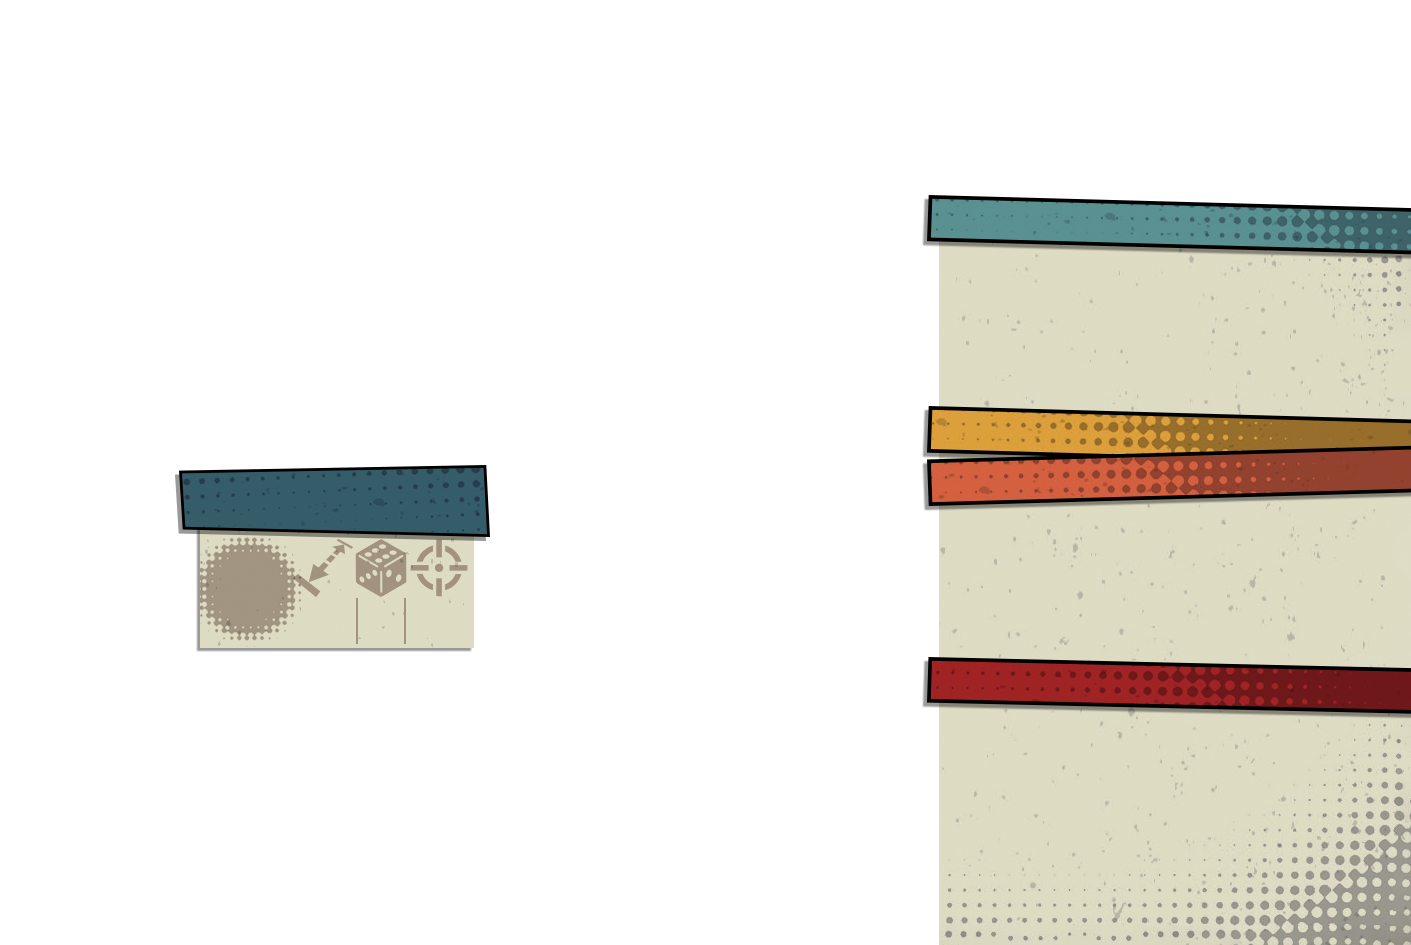
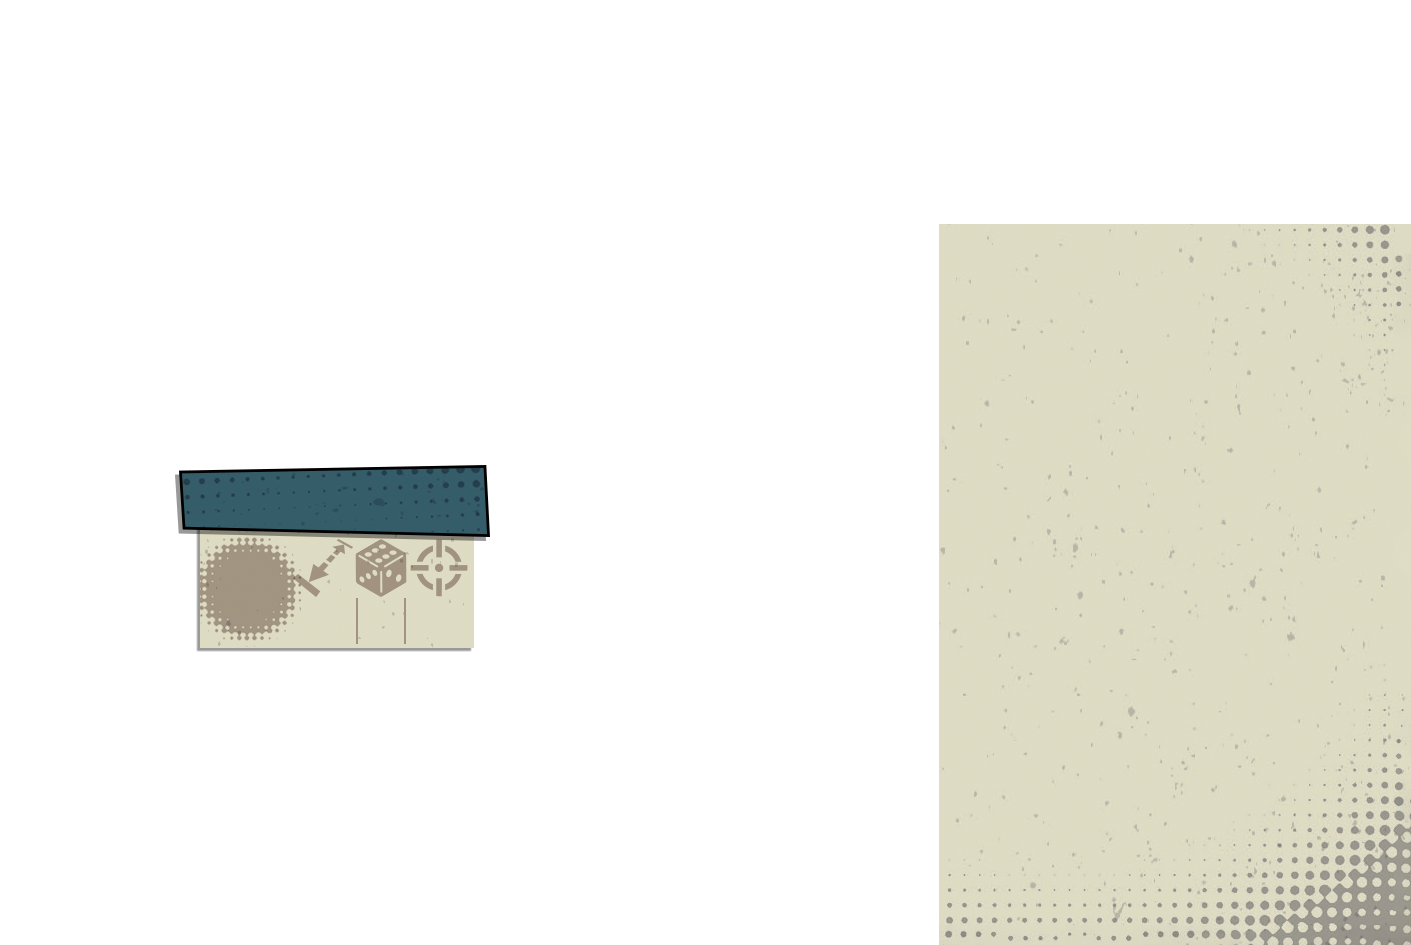
Base de personajes y barras de habilidad dinámicas
- Carga 94 héroes y 69 zombis (todo o por partes: ataque, azul, amarilla, naranja, roja)
- Las barras de habilidad se recolocan según el texto, como en las cartas impresas

Claude-Session: https://claude.ai/code/session_017HhvTnrWSauLd4gXkxnv73

Changed region(s): [[0.6549, 0.4296, 1.0, 0.5524], [0.6549, 0.6751, 1.0, 0.7672], [0.6549, 0.1841, 1.0, 0.2762]]

diff --git a/index.html b/index.html
@@ -52,6 +52,10 @@ body{background:var(--bg);color:var(--ink);font-family:var(--ui);line-height:1.4
 .sec{display:flex;flex-direction:column;gap:9px;border:0;margin:0;padding:0;min-width:0}
 .sec>h2{margin:0;font:700 .8rem var(--cond);letter-spacing:.08em;text-transform:uppercase;color:var(--accent);border-bottom:1px solid var(--line);padding-bottom:4px}
 label.f{display:flex;flex-direction:column;gap:4px;font-size:.74rem;color:var(--muted);text-transform:uppercase;letter-spacing:.04em;min-width:0}
+.parts{display:grid;grid-template-columns:repeat(3,1fr);gap:6px}
+.parts .btn{padding:8px 4px;font-size:.82rem}
+.parts .pb{border-left:5px solid var(--c)}
+select{font:500 .92rem var(--ui);color:var(--ink);background:var(--field);border:1px solid var(--line);border-radius:8px;padding:8px 8px;width:100%;min-width:0}
 input[type=text],textarea{font:400 .95rem var(--ui);color:var(--ink);background:var(--field);border:1px solid var(--line);border-radius:8px;padding:8px 10px;width:100%}
 textarea{min-height:64px;resize:vertical;line-height:1.35}
 input:focus-visible,textarea:focus-visible,button:focus-visible,.seg input:focus-visible+span{outline:2px solid var(--accent);outline-offset:2px}
@@ -146,6 +150,24 @@ details.about b{color:var(--ink)}
           <button class="btn" type="button" id="resetFit">Centrar</button>
         </div>
         <p class="hint">Arrastra sobre la carta para mover la imagen. Por defecto se coloca exactamente donde la pone la plantilla.</p>
+      </section>
+
+      <section class="sec">
+        <h2>Base de personajes</h2>
+        <div class="row">
+          <label class="f" style="flex:0 0 40%">Fuente<select id="dbSrc"><option value="hero">Héroes</option><option value="zombie">Zombis</option></select></label>
+          <label class="f">Personaje<select id="dbChar"></select></label>
+        </div>
+        <button class="btn primary" type="button" id="dbAll">Cargar todo el personaje</button>
+        <div class="parts" role="group" aria-label="Cargar solo una parte">
+          <button class="btn" type="button" data-part="name">Nombre</button>
+          <button class="btn" type="button" data-part="atk">Ataque</button>
+          <button class="btn pb" type="button" data-part="blue" style="--c:#4f97a6">Azul</button>
+          <button class="btn pb" type="button" data-part="yellow" style="--c:#d39a1f">Amarilla</button>
+          <button class="btn pb" type="button" data-part="orange" style="--c:#d2622f">Naranja</button>
+          <button class="btn pb" type="button" data-part="red" style="--c:#a8282a">Roja</button>
+        </div>
+        <p class="hint" id="dbHint">Carga todo el personaje o solo una parte: puedes elegir otro personaje y traer solo su habilidad roja, azul…</p>
       </section>
 
       <section class="sec front-only">
@@ -297,7 +319,7 @@ const FILES=['front_bg_zombie','front_bg_hero','frame_zombie','frame_hero','devo
  'health_1','health_2','health_3','health_4','health_5','health_tick','icon_skull','power_symbol',
  'sym_zombie_melee','sym_zombie_ranged','sym_hero_melee','sym_hero_ranged',
  'plate_front_zombie','plate_front_hero','plate_back_zombie','plate_back_hero',
- 'back_base_zombie','back_base_hero','back_blood','copyright_mark',
+ 'back_base_zombie','back_base_hero','back_blood','copyright_mark','bar_blue','bar_yellow','bar_orange','bar_red',
  'track_zombie_icon','track_hero_icon','track_zombie_tick','track_hero_tick'];
 for(const m of ['zombie','hero']) for(let j=0;j<5;j++) FILES.push(`track_${m}_row${j}`);
 function loadImg(src){return new Promise(r=>{const i=new Image();i.onload=()=>r(i);i.onerror=()=>r(null);i.src=src;});}
@@ -485,14 +507,31 @@ function drawFrontName(m){
   W=Math.max(W,230); plateCols('plate_front_'+m,89,84,W,150);
   ctx.fillStyle='#fff'; ctx.textAlign='left'; drawText(text,n.x,n.y,track,'left',n.obl);
 }
+/* Skill bars move with the text, as on the printed cards: keep the template positions when the text fits,
+   otherwise slide the red bar down, then the yellow/orange pair, and only then reduce the type size. */
+const SKILL_BOTTOM=880, SKILL_GAP=11;
+function skillLayout(size){
+  const lead=DESC.lead*size/DESC.size, fo=0.744*(DESC.size-size);
+  const n=k=>S[k+'D']?layoutDesc(S[k+'D'],size,DESC.w).lines.length:0;
+  const nb=n('blue'), no=n('orange'), nr=n('red');
+  const last=(first,lines)=>lines?first+(lines-1)*lead:first-lead+10;
+  const place=(minY,minR)=>{ const b=195, bf=b+88-fo, bl=last(bf,nb);
+    const y=Math.max(minY,bl+SKILL_GAP), o=y+37, of=o+92.3-fo, ol=last(of,no);
+    const r=Math.max(minR,ol+SKILL_GAP), rf=r+86.3-fo, rl=last(rf,nr);
+    return {size,lead,b,bf,y,o,of,r,rf,rl}; };
+  for(const [a,c] of [[406,657],[406,0],[0,0]]){ const L=place(a,c); if(L.rl<=SKILL_BOTTOM) return L; }
+  return place(0,0);
+}
 function drawSkills(){
-  ctx.textAlign='left';
-  for(const k of ['blue','yellow','orange','red']){
-    const sk=SK[k], t=up(S[k+'T']);
-    if(t){ let size=31.25; font('TabletTitle',size); while(tw(t)>440&&size>18){size-=0.5;font('TabletTitle',size);}
-      ctx.fillStyle='#fff'; drawText(t,sk.tx,sk.ty,0,'left'); }
-    if(sk.box!==undefined){ const d=S[k+'D']; if(d) drawDescBlock(d,DESC.x,sk.box+DESC.first,DESC.w,sk.limit,'left',25); }
-  }
+  let size=DESC.size, L;
+  for(;;){ L=skillLayout(size); if(L.rl<=SKILL_BOTTOM||size<=22) break; size-=0.5; }
+  const title=(t,x,y)=>{ t=up(t); if(!t) return; let s=31.25; font('TabletTitle',s); while(tw(t)>398&&s>18){s-=0.5;font('TabletTitle',s);}
+    ctx.fillStyle='#fff'; ctx.textAlign='left'; drawText(t,x,y,0,'left'); };
+  const desc=(d,first)=>{ if(d) drawDescBlock(d,DESC.x,first,DESC.w,1e9,'left',0,{size:L.size,lead:L.lead}); };
+  desc(S.blueD,L.bf); if(IMG.bar_blue) ctx.drawImage(IMG.bar_blue,922,L.b); title(S.blueT,938.4,L.b+36.2);
+  if(up(S.yellowT)){ if(IMG.bar_yellow) ctx.drawImage(IMG.bar_yellow,922,L.y); title(S.yellowT,938.3,L.y+35.1); }
+  desc(S.orangeD,L.of); if(IMG.bar_orange) ctx.drawImage(IMG.bar_orange,922,L.o); title(S.orangeT,936.9,L.o+50.1);
+  desc(S.redD,L.rf); if(IMG.bar_red) ctx.drawImage(IMG.bar_red,922,L.r); title(S.redT,937.4,L.r+35.3);
 }
 function placeholder(box){
   ctx.save(); ctx.fillStyle='rgba(20,30,30,.35)'; ctx.font='600 30px "Barlow Condensed",sans-serif'; ctx.textAlign='center';
@@ -620,6 +659,36 @@ $('loadJson').addEventListener('change',async e=>{
     changed(); $('status').textContent='Personaje cargado.'; }
   catch(err){ $('status').textContent='No se pudo leer el archivo: comprueba que sea un .json guardado con este editor.'; }
 });
+
+/* ---------- character database (from Heroes_jugables / zombies_jugables) ---------- */
+let DBC=null;
+async function loadDB(){ try{ const r=await fetch('assets/personajes.json'); if(!r.ok) throw 0; DBC=await r.json(); }catch(e){ DBC=null; } fillDB(); }
+function fillDB(){
+  const sel=$('dbChar'), src=$('dbSrc').value; sel.innerHTML='';
+  if(!DBC){ sel.innerHTML='<option>No se pudo cargar la base</option>'; return; }
+  const bySet={}; DBC[src].forEach((c,i)=>{(bySet[c.set]=bySet[c.set]||[]).push([c.n,i]);});
+  Object.keys(bySet).sort((a,b)=>a==='Core Box'?-1:b==='Core Box'?1:a.localeCompare(b)).forEach(set=>{
+    const g=document.createElement('optgroup'); g.label=set;
+    bySet[set].sort((a,b)=>a[0].localeCompare(b[0])).forEach(([n,i])=>{const o=document.createElement('option');o.value=i;o.textContent=n;g.appendChild(o);});
+    sel.appendChild(g); });
+}
+function dbPick(){ return DBC?DBC[$('dbSrc').value][+$('dbChar').value]:null; }
+const PART_LABEL={name:'nombre',atk:'ataque',blue:'habilidad azul',yellow:'banda amarilla',orange:'habilidad naranja',red:'habilidad roja'};
+function applyPart(c,part){
+  if(part==='name') S.name=c.n;
+  if(part==='atk'){ S.atkTitle=c.atk; S.atype=c.type==='ranged'?'ranged':'melee'; S.range=c.r; S.dice=c.d; S.hit=c.hit; }
+  if(part==='blue'){ S.blueT=c.bt; S.blueD=c.bd; }
+  if(part==='yellow'){ S.yellowT=c.yt||'+1 ACTION'; }
+  if(part==='orange'){ S.orangeT=c.ot; S.orangeD=c.od; }
+  if(part==='red'){ S.redT=c.rt; S.redD=c.rd; }
+}
+$('dbSrc').addEventListener('change',fillDB);
+$('dbAll').addEventListener('click',()=>{ const c=dbPick(); if(!c) return; const src=$('dbSrc').value;
+  ['name','atk','blue','yellow','orange','red'].forEach(p=>applyPart(c,p)); S.mode=src;
+  if(src==='hero'&&c.hp){ const h=parseInt(c.hp,10); if(h>=1&&h<=8) S.health=h; }
+  changed(); $('dbHint').textContent=`Cargado ${c.n} (${src==='hero'?'Héroe':'Zombi'}) completo.`+(c.bt?'':' Este zombi no trae título azul en la base: escríbelo a mano.'); });
+document.querySelectorAll('.parts [data-part]').forEach(b=>b.addEventListener('click',()=>{ const c=dbPick(); if(!c) return;
+  applyPart(c,b.dataset.part); changed(); $('dbHint').textContent=`Copiado de ${c.n} → ${PART_LABEL[b.dataset.part]}.`; }));
 
 /* ---------- print sheet (A4) ---------- */
 const MM=300/25.4;                          /* template is 300 ppi: 1299×827 px = 110×70 mm */
@@ -752,6 +821,7 @@ $('themeBtn').addEventListener('click',()=>{const r=document.documentElement,c=r
   try{ await Promise.all(['MonsterMovies','DevilDog','TabletTitle','TabletNum','TabletBody','TabletAtk'].map(f=>document.fonts.load(`40px "${f}"`))); }catch(e){}
   syncUI(); draw(); placeTrim();
   await loadCards();
+  $('dbSrc').value=S.mode; await loadDB();
   window.__ready=true;
 })();
 window.__S=S; window.__setArt=async src=>{artSrc=src;art=await loadImg(src);artId++;draw();};
